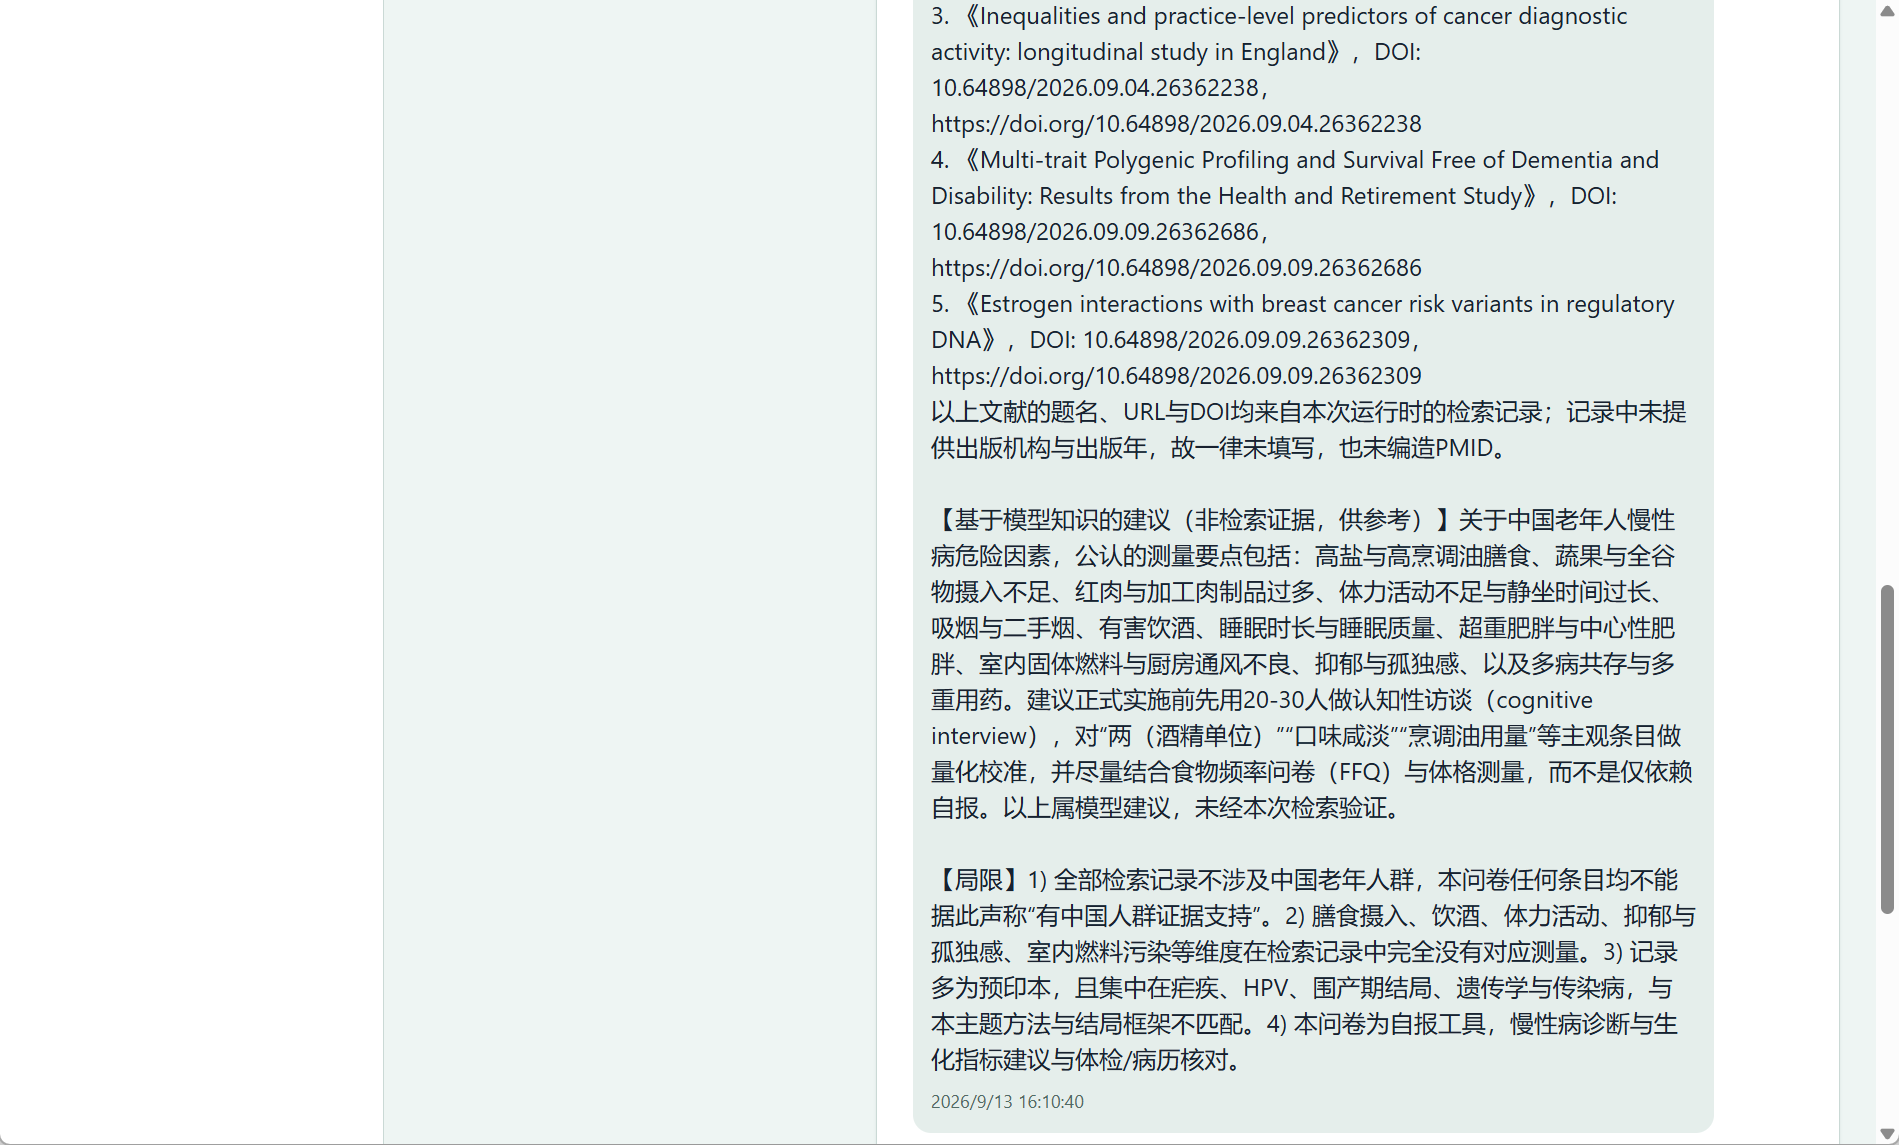
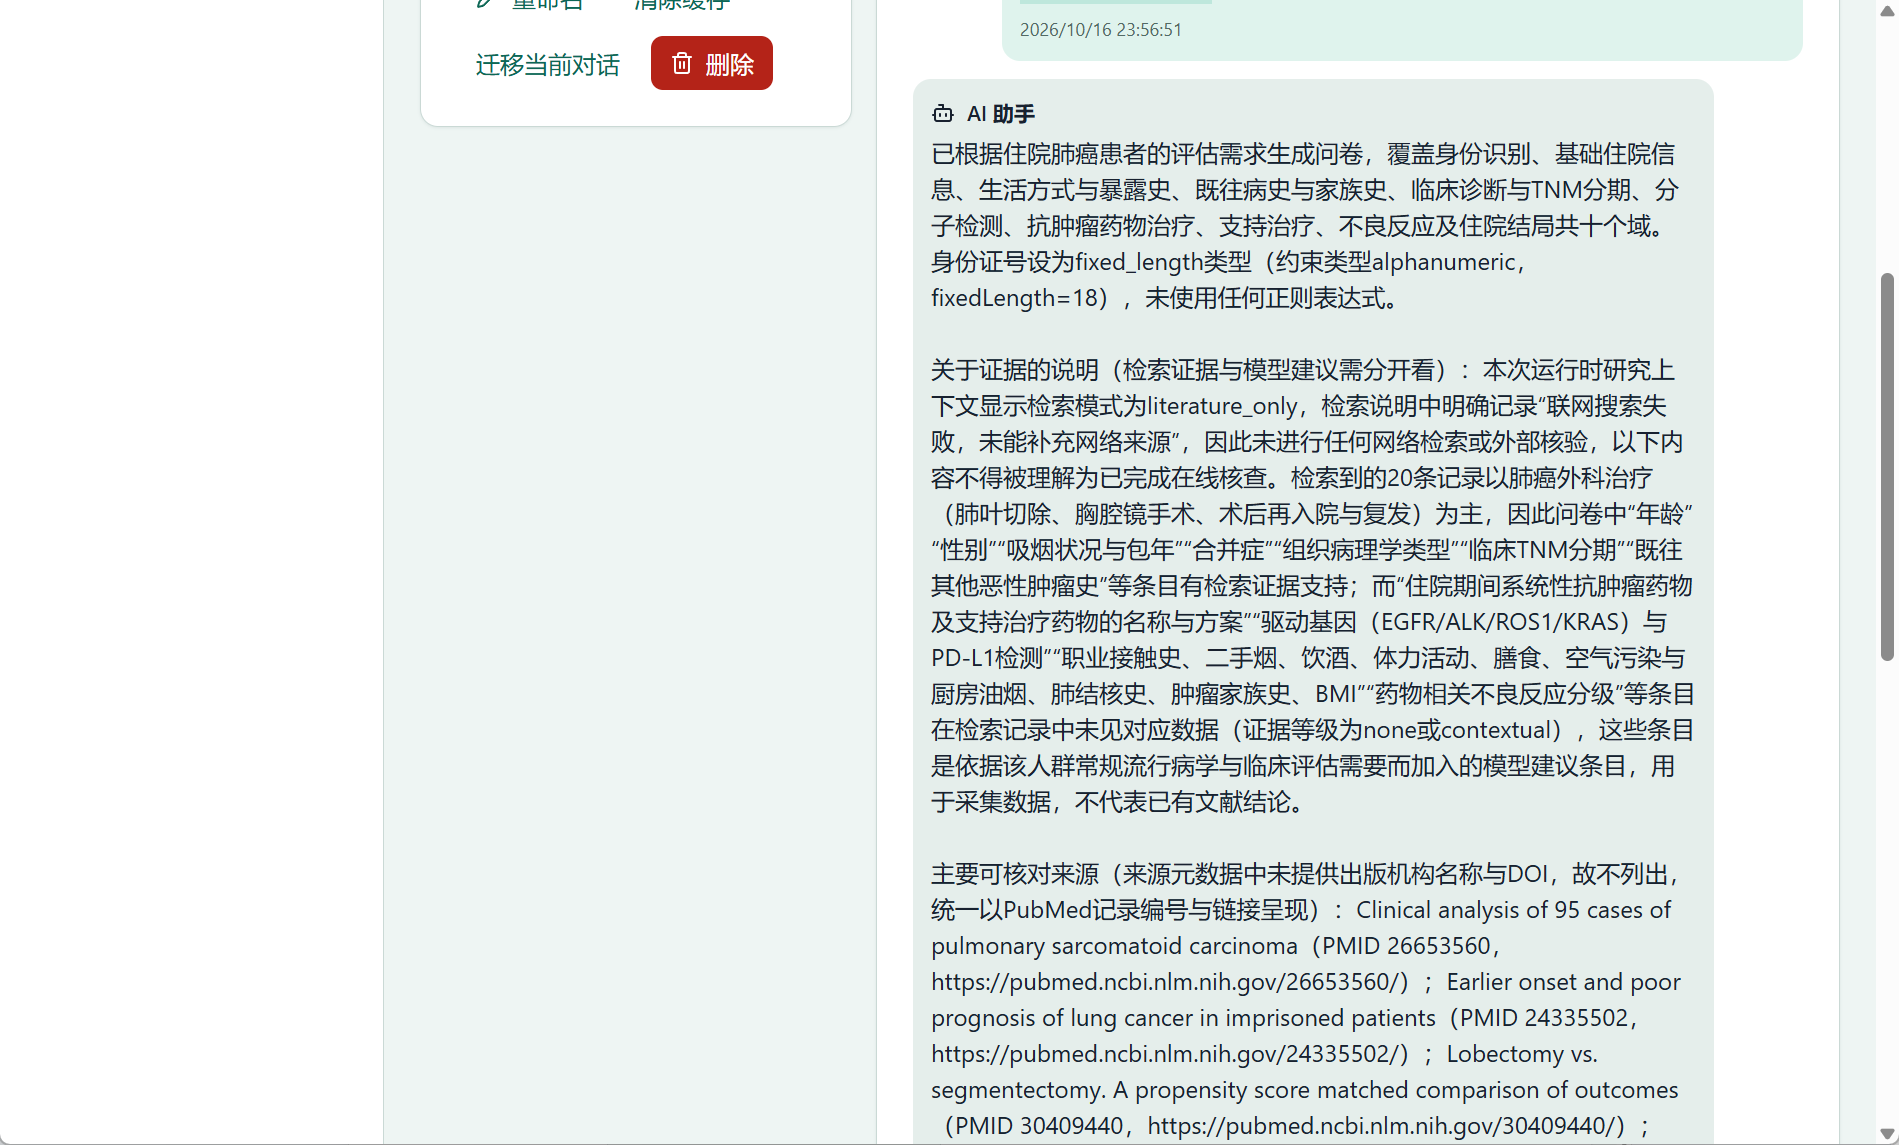
Update README

diff --git a/README.md b/README.md
@@ -2,7 +2,7 @@
 
 EasyEpi 是面向流行病学与社会调查的 Windows 桌面应用，集成问卷设计、问卷录入、数据管理、统计分析和 AI 问卷助手。核心业务离线运行；AI 功能仅在用户主动发送时连接所配置的服务。
 
-AI 问卷助手的LLM选用 DeepSeek：服务地址固定为 `https://api.deepseek.com`，（默认LLM模型为 `deepseek-v4.1-flash`）、用户需要手动填写 API Key 。
+AI 问卷助手的LLM选用 DeepSeek：服务地址固定为 `https://api.deepseek.com`，（默认LLM模型为 `deepseek-v4.1-flash`）、用户需要手动填写 API Key 。另外，可以通过注册 NCBI 的账号获取 API 以更高效率搜索和获取 Pubmed 信息。
 
 ## 开发环境
 
@@ -51,12 +51,22 @@ AI 问卷助手的LLM选用 DeepSeek：服务地址固定为 `https://api.deepse
 我的提示词为：
 
 ```JSON
-现在帮我建立一份中国老年慢性病调查的问卷，需要包括饮食因素，生活因素和中国现在较为流行的慢性病的因素
+现在需要你针对医院住院患者的肺癌情况设计一份问卷，包括常用的药物，以及临床诊断TNM分期，还有年龄等基础住院信息，还需要身份证号作为唯一识别号
 ```
 
 问卷回复信息：
 
 ![AI Support](public/images/AISupport.png)
+
+完整回复如下：
+
+```
+已根据住院肺癌患者的评估需求生成问卷，覆盖身份识别、基础住院信息、生活方式与暴露史、既往病史与家族史、临床诊断与TNM分期、分子检测、抗肿瘤药物治疗、支持治疗、不良反应及住院结局共十个域。身份证号设为fixed_length类型（约束类型alphanumeric，fixedLength=18），未使用任何正则表达式。
+
+关于证据的说明（检索证据与模型建议需分开看）：本次运行时研究上下文显示检索模式为literature_only，检索说明中明确记录“联网搜索失败，未能补充网络来源”，因此未进行任何网络检索或外部核验，以下内容不得被理解为已完成在线核查。检索到的20条记录以肺癌外科治疗（肺叶切除、胸腔镜手术、术后再入院与复发）为主，因此问卷中“年龄”“性别”“吸烟状况与包年”“合并症”“组织病理学类型”“临床TNM分期”“既往其他恶性肿瘤史”等条目有检索证据支持；而“住院期间系统性抗肿瘤药物及支持治疗药物的名称与方案”“驱动基因（EGFR/ALK/ROS1/KRAS）与PD-L1检测”“职业接触史、二手烟、饮酒、体力活动、膳食、空气污染与厨房油烟、肺结核史、肿瘤家族史、BMI”“药物相关不良反应分级”等条目在检索记录中未见对应数据（证据等级为none或contextual），这些条目是依据该人群常规流行病学与临床评估需要而加入的模型建议条目，用于采集数据，不代表已有文献结论。
+
+主要可核对来源（来源元数据中未提供出版机构名称与DOI，故不列出，统一以PubMed记录编号与链接呈现）：Clinical analysis of 95 cases of pulmonary sarcomatoid carcinoma（PMID 26653560，https://pubmed.ncbi.nlm.nih.gov/26653560/）；Earlier onset and poor prognosis of lung cancer in imprisoned patients（PMID 24335502，https://pubmed.ncbi.nlm.nih.gov/24335502/）；Lobectomy vs. segmentectomy. A propensity score matched comparison of outcomes（PMID 30409440，https://pubmed.ncbi.nlm.nih.gov/30409440/）；Lung cancer and cardiovascular diseases: occurrence, comorbidity and surgical timing（PMID 17410071，https://pubmed.ncbi.nlm.nih.gov/17410071/）；Lung Cancer and Multiple Neoplasms: A Retrospective Analysis（PMID 26987325，https://pubmed.ncbi.nlm.nih.gov/26987325/）；Postoperative recurrence of primary lung cancer: anatomo-clinical and therapeutic study（PMID 35244906，https://pubmed.ncbi.nlm.nih.gov/35244906/）；Unexpected readmission after lung cancer surgery: A benign event?（PMID 26410004，https://pubmed.ncbi.nlm.nih.gov/26410004/）；Development and Validation of a Prognostic Survival Model With Patient-Reported Outcomes for Patients With Cancer（PMID 32236529，https://pubmed.ncbi.nlm.nih.gov/32236529/）。上述记录均提醒：抗肿瘤药物名称、剂量与方案，以及药物相关不良反应分级在本目标人群中证据不足，正式使用前建议由临床药师与肿瘤科医师按本机构实际用药目录核对选项清单。
+```
 
 其设计好的问卷支持一键导入并支持后续修改：
 
@@ -64,13 +74,19 @@ AI 问卷助手的LLM选用 DeepSeek：服务地址固定为 `https://api.deepse
 
 因为在实际上，我们在问卷设计好给现场工作人员录入后，我们不想让他人直接看到之前的数据或者导出数据，因此需要管理员的二重验证，在登陆后台后，可以看到数据的情况
 
+首先是数据表格，在这里可以看到所有登记信息情况：
+
+![Data frame](public/images/Dataframe.png)
+
+在数据质量页可以看到所有回答的情况，以及每道题的完成情况，同时还可以生成基线表对数据进行初步的统计、数据质量的监测、支持问卷的双录入、问卷数据的导出（支持`.csv`格式）、修改管理员密码。
+
 ![Data Quality](public/images/DataQuality.png)
 
-在这里，我们支持看数据表格、生成基线表对数据进行初步的统计、数据质量的监测、支持问卷的双录入、问卷数据的导出（支持`.csv`格式）、修改管理员密码。支持衍生变量的计算：
+支持衍生变量的计算：且支持多种运算方式，比如类似于LaTeX的表示符也可以直接进行点击的计算操作
 
 ![New Variable](public/images/NewVariable.png)
 
-支持多种运算方式，比如类似于LaTeX的表示符也可以直接进行点击的计算操作
+
 
 ### 其他特性：
 
@@ -97,5 +113,3 @@ AI设置：API输入与模型选择
 制作人： Jiahao Lin
 
 [个人主页](kokuyublog.com)：内涵更多统计等方面学习资料
-
-开发支持：Deepseek V4、ChatGPT 5.6 Sol、Xiaomi MiMo 2.5 pro
